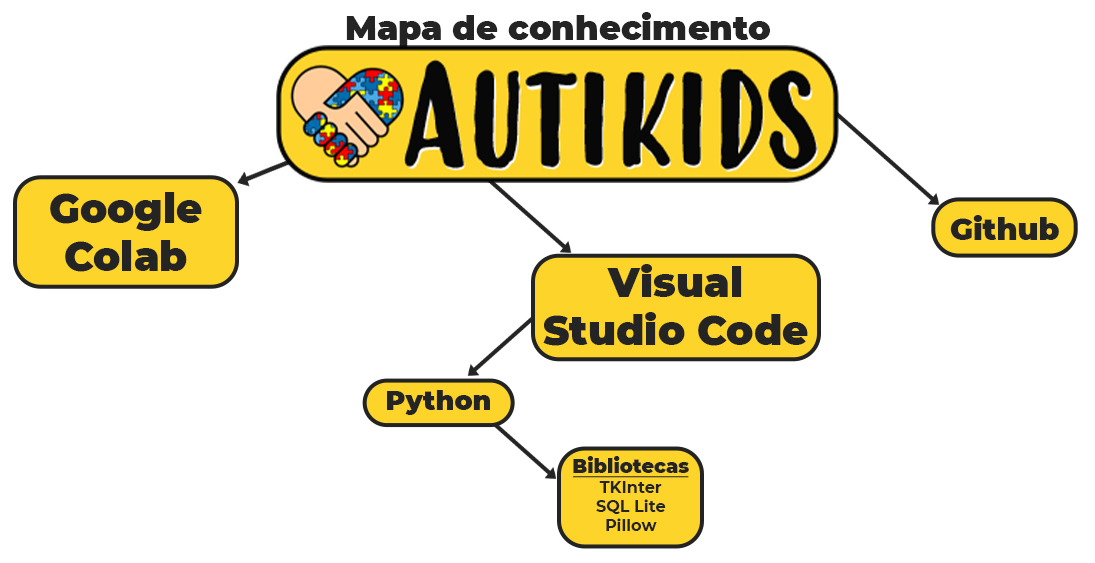
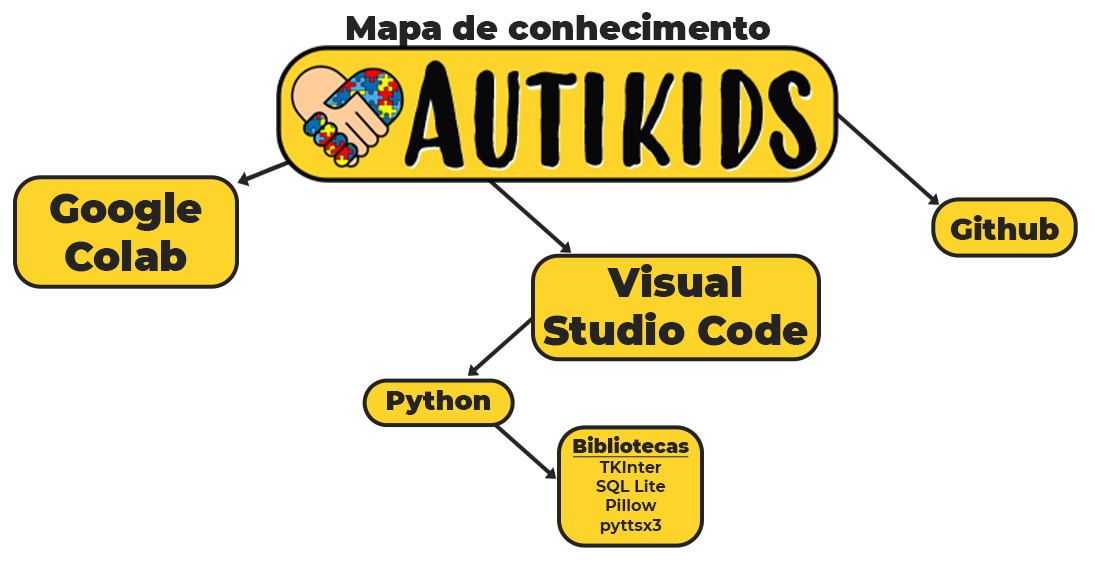
0.1

Changed region(s): [[0.4968, 0.7549, 0.6521, 0.9964]]

diff --git a/Autikids.py b/Autikids.py
@@ -1,0 +1,86 @@
+import pyttsx3
+USUÁRIOS = []; SENHAS = []; logado = False
+while not logado:
+    escolha = (input('\nSelecione uma opção:\n• [1] Fazer Login\n• [2] Criar conta\nR: '))
+    if escolha == '1':
+        nome_usuario = input('\n•Usuário: ')
+        senha_usuario = input('•Senha: ')
+        if nome_usuario in USUÁRIOS and senha_usuario in SENHAS:
+            logado = True
+            break
+        else:
+            print('\n•Senha ou usuário inválidos. Tente novamente')
+    elif escolha == '2':
+        nome_usuario = input('\n•Escolha seu nome de usuário: ')
+        senha_usuario = input('•Escolha sua senha: ')
+        USUÁRIOS.append(str(nome_usuario))
+        SENHAS.append(str(senha_usuario))
+        print(f'\n•Usuário {nome_usuario} cadastrado com sucesso.')
+    else:
+        print('\n•Opção inválida. Tente novamente.')
+
+while logado:
+    escolha = (input(f'\nOlá, {nome_usuario}!\n•MENU DE INTERAÇÕES:\n\n•[0]Sair\n•[1]Apresentações\n•[2]Estou com fome\n•[3]Estou com sede\n•[4]Quero isso\n•[5]Quero aquilo\n•[6]Me ajude\n•[7]Preciso ir ao banheiro\n\n•R: '))
+    if escolha == '0':
+        while True:
+            s = pyttsx3.init()
+            data = "Tem certeza que quer sair?"
+            s.say(data)
+            s.runAndWait()
+            sair = input('\n•Tem certeza que quer sair?\n[0]SIM\n[1]NÃO\nR: ')
+            if sair == '0':
+                print(f'\nAté mais, {nome_usuario}.')
+                s = pyttsx3.init()
+                data = f"Até mais, {nome_usuario}."
+                s.say(data)
+                s.runAndWait()
+                exit()
+            elif sair == '1':
+                break
+            else:
+                print('\n•Opção inválida. Tente novamente.')
+                s = pyttsx3.init()
+                data = "Opção inválida. Tente novamente."
+                s.say(data)
+                s.runAndWait()
+    elif escolha == '1':
+        s = pyttsx3.init()
+        data = f"Olá! Meu nome é {nome_usuario}. Qual seu nome?"
+        s.say(data)
+        s.runAndWait()
+    elif escolha == '2':
+        s = pyttsx3.init()
+        data = "Estou com fome."
+        s.say(data)
+        s.runAndWait()
+    elif escolha == '3':
+        s = pyttsx3.init()
+        data = "Estou com sede."
+        s.say(data)
+        s.runAndWait()
+    elif escolha == '4':
+        s = pyttsx3.init()
+        data = "Quero isso."
+        s.say(data)
+        s.runAndWait()
+    elif escolha == '5':
+        s = pyttsx3.init()
+        data = "Quero aquilo."
+        s.say(data)
+        s.runAndWait()
+    elif escolha == '6':
+        s = pyttsx3.init()
+        data = "Me ajude!"
+        s.say(data)
+        s.runAndWait()
+    elif escolha == '7':
+        s = pyttsx3.init()
+        data = "Preciso ir ao banheiro."
+        s.say(data)
+        s.runAndWait()
+    else:
+        print('\n•Opção inválida. Tente novamente.')
+        s = pyttsx3.init()
+        data = "Opção inválida. Tente novamente."
+        s.say(data)
+        s.runAndWait()
